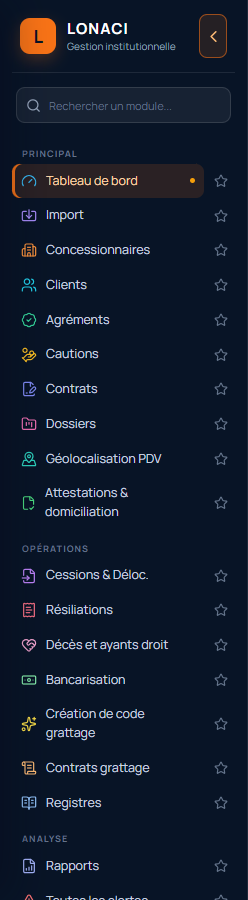
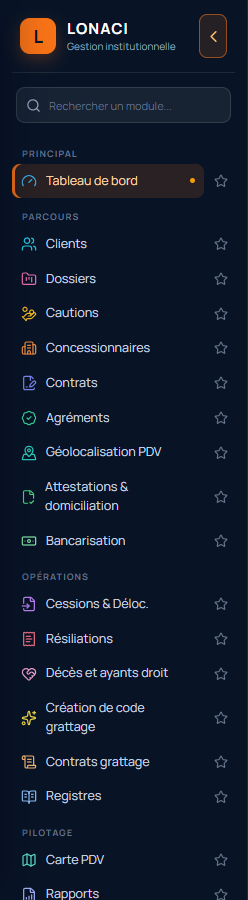
Stabiliser le rendu premium multi-navigateurs
Actualise les références visuelles et améliore la compatibilité des effets et du focus afin de fiabiliser la refonte sur davantage de navigateurs.

diff --git a/src/app/globals.css b/src/app/globals.css
@@ -70,7 +70,7 @@ textarea {
 }
 
 :focus-visible {
-  outline: 3px solid color-mix(in srgb, var(--lonaci-focus) 80%, white);
+  outline: 3px solid #60a5fa;
   outline-offset: 2px;
 }
 
@@ -395,6 +395,7 @@ textarea {
   place-items: center;
   overflow-y: auto;
   background: rgba(7, 20, 38, 0.72);
+  -webkit-backdrop-filter: blur(3px);
   backdrop-filter: blur(3px);
 }
 